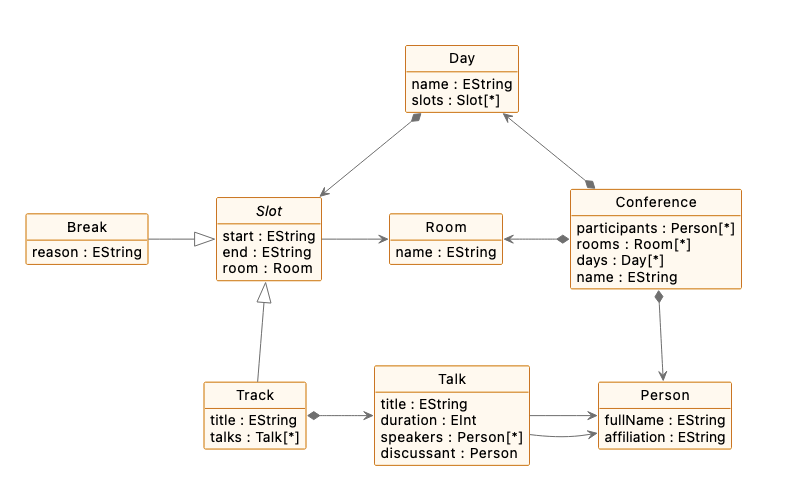
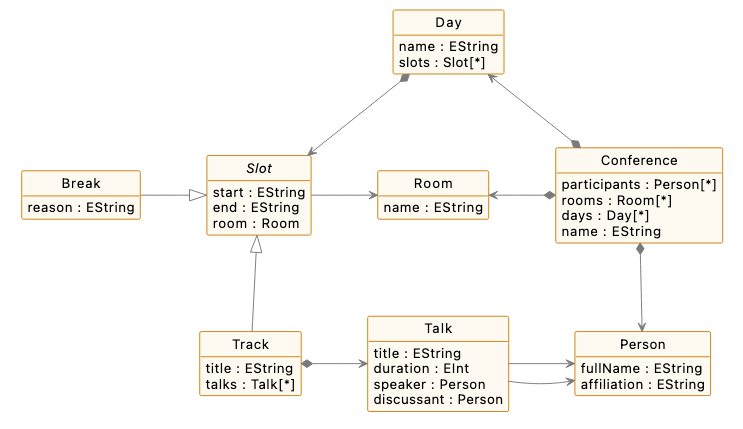
Fixed inconsistency between description and reference solution

diff --git a/src/practicals/modelling-and-metamodelling/conference-dsl.md b/src/practicals/modelling-and-metamodelling/conference-dsl.md
@@ -6,7 +6,8 @@ Design the metamodel of a DSL for modelling conferences using Emfatic. Below are
 - On every day, there are several talks organised in (potentially parallel) tracks
 - There are breaks between tracks (e.g., for lunch/coffee)
 - Each track/break takes place in one room
-- Each talk can be delivered by one or more speakers
+- Each talk is delivered by one speaker
+- Each talk also has a pre-arranged discussant whose role is to provide critical feedback to the speaker
 - Each talk has a pre-defined duration
 
 ## Why?
@@ -73,7 +74,7 @@ class Track extends Slot {
 class Talk {
     attr String title;
     attr int duration;
-    ref Person[*] speakers;
+    ref Person speaker;
     ref Person discussant;
 }
 
